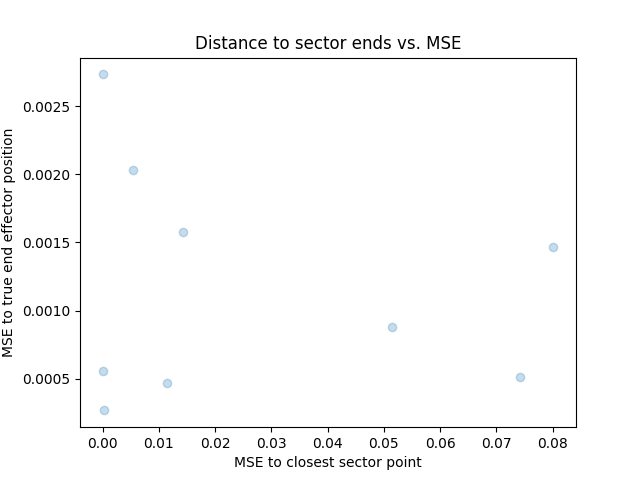
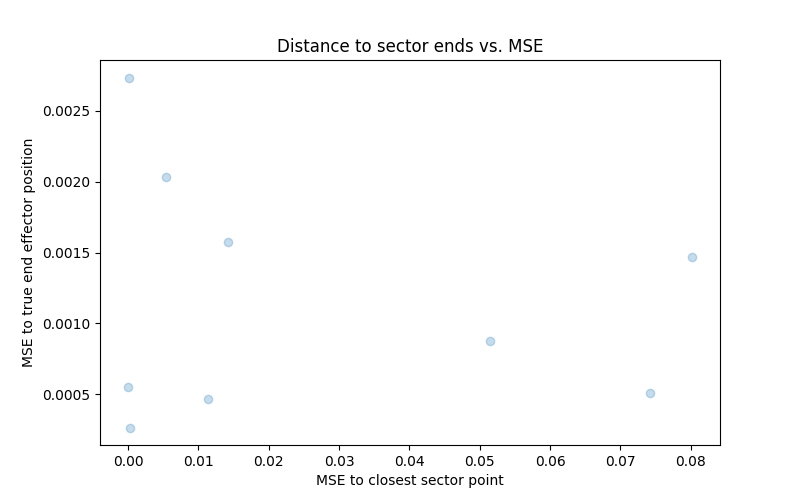
minor plot update to stop the cutting off of the label

diff --git a/generate_plots.py b/generate_plots.py
@@ -55,6 +55,10 @@ def get_MSE_against_closest_sector_end(df, complete_df, save_path):
     else:
         assert False, 'No positions adjacent to test_out found, data probably ill-formed.'
     
+    # Resize figure
+    # 11/27/22 : https://www.geeksforgeeks.org/change-plot-size-in-matplotlib-python/
+    figure = plt.figure(figsize=(8, 5))
+    
     plt.xlabel('MSE to closest sector point')
     plt.ylabel('MSE to true end effector position')
     plt.title('Distance to sector ends vs. MSE')

diff --git a/README.md b/README.md
@@ -32,3 +32,6 @@ chmod u+x phase_2.sh
 
 ./phase_2.sh
 ```
+
+For the demonstrations, move the previously generated raw data to `data_raw`. Then, make a folder called `data_processed` and put the split there. Then, run `nn_controller_sim_v2` for the respective case in the code, and screen record the Meshcat demonstrations.
+
